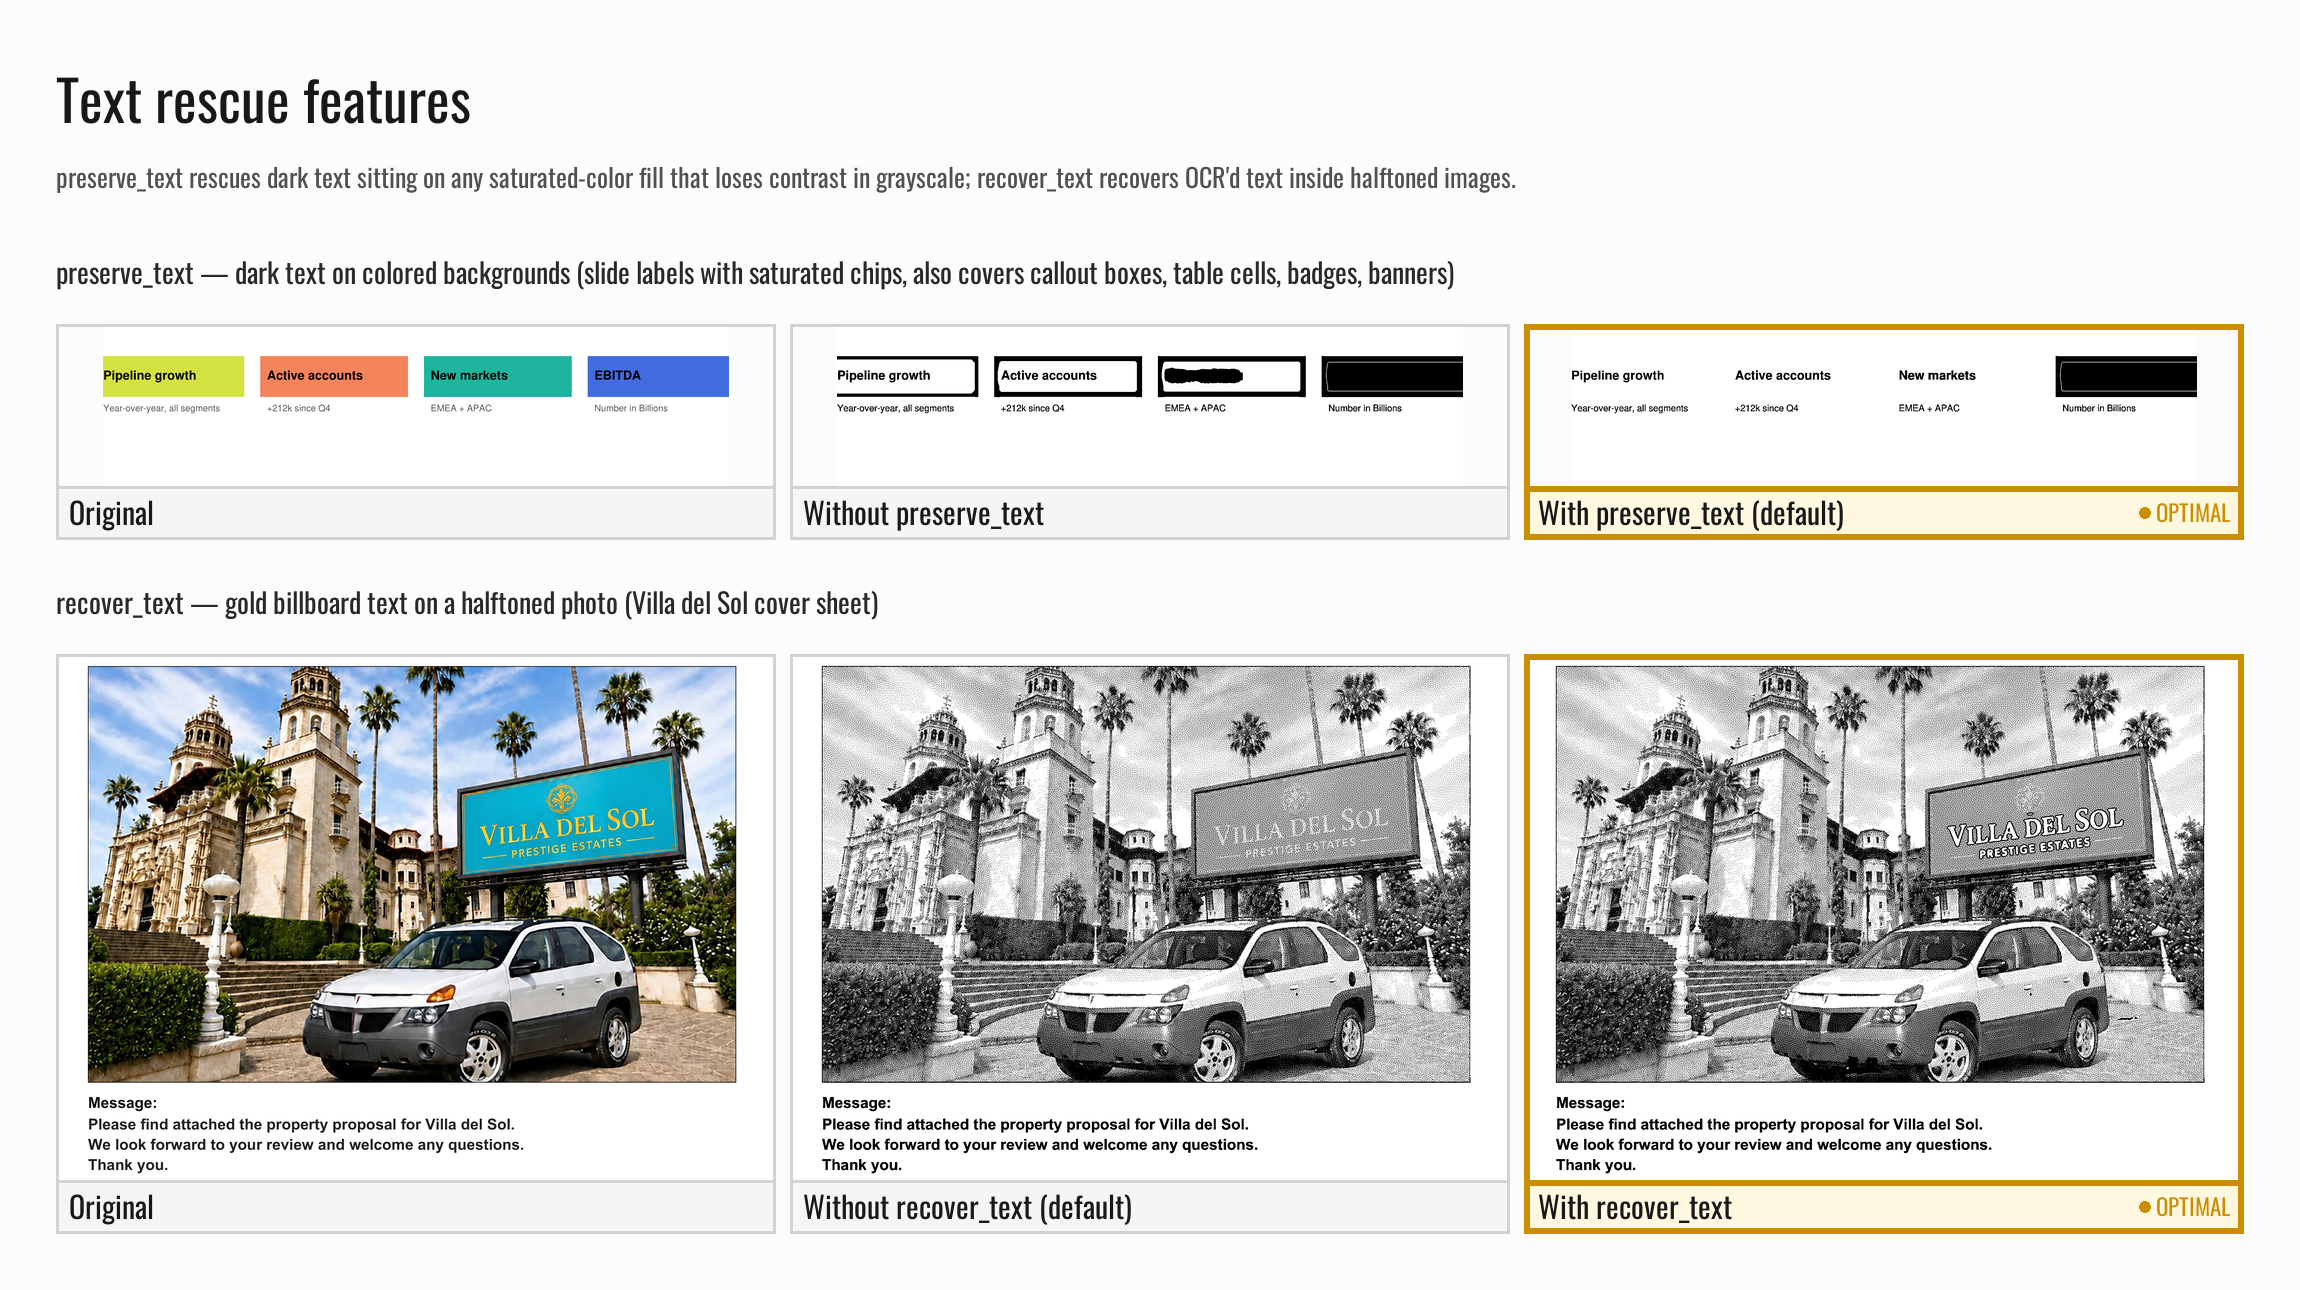
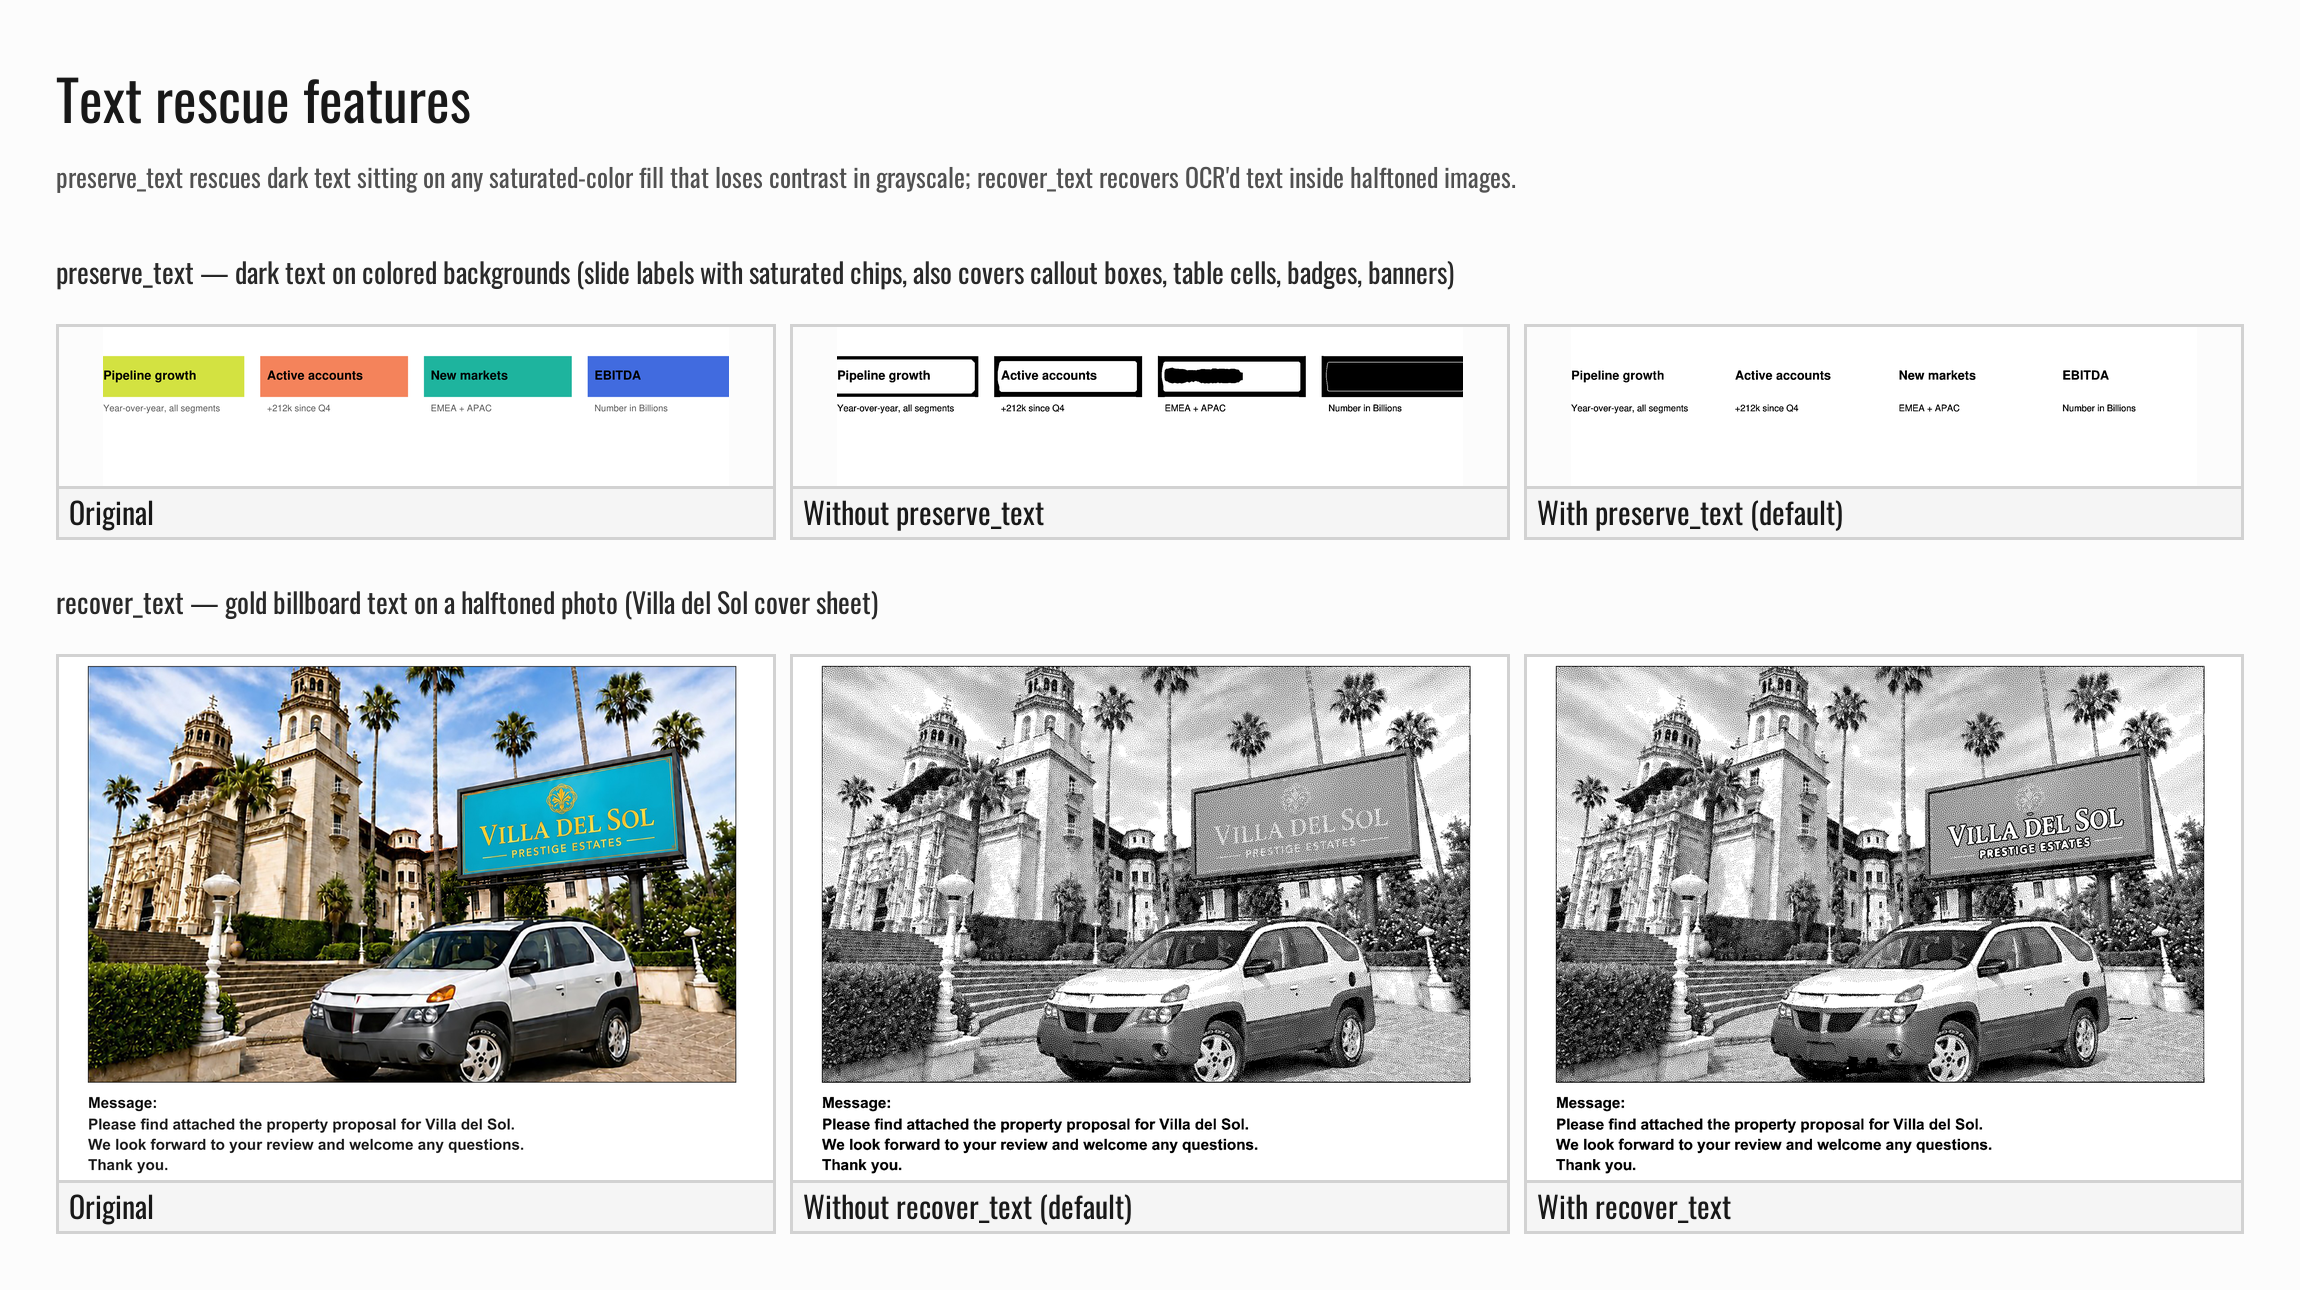
fix(preserve_text): use background-relative dark threshold so dark-luma chips rescue correctly
`preserve_text_mask` was using an absolute `dark_thr=110` to count
text-stroke pixels inside each candidate chip. For any chip whose
grayscale background luma sat at or below 110 -- e.g. a dark-blue
"EBITDA" badge at RGB(65,107,223), luma 108 -- the chip's *entire*
background got counted as "dark text". `dark_frac` then saturated near
1.0, exceeded `max_dark_frac=0.50`, and the chip was rejected from the
rescue. It fell through to the contrast binarizer which painted the
whole chip solid black with the label knocked out -- the exact failure
mode preserve_text exists to prevent.

The fix anchors the threshold to the chip's own background luma:

  * Compute `bg_luma = percentile(chip_pixels, 75)` per component
    (robust to text strokes occupying up to a quarter of the chip).
  * Skip the chip entirely if `bg_luma < bg_luma_floor=60`. A chip
    that dark all the way through has no background to lift; the
    binarizer can have it.
  * `effective_dark_thr = max(rel_dark_floor=40,
                              min(dark_thr=110, bg_luma - rel_dark_offset=40))`.
    The absolute `dark_thr` is preserved as an upper cap so bright
    chips (lime, pale yellow) still catch their full anti-aliased
    glyph halos and don't slice the glyph outline; on a dark-blue
    chip the cap drops to ~68 so the blue background no longer
    registers as a stroke and the rescue fires correctly.

Behaviour matrix across the synthetic-chip demo:
[…]

diff --git a/pdf-fax-optimizer/scripts/fax_pipeline.py b/pdf-fax-optimizer/scripts/fax_pipeline.py
@@ -380,7 +380,10 @@ def preserve_text_mask(rgb: np.ndarray,
                                 dark_thr: int = 110,
                                 min_dark_frac: float = 0.0,
                                 max_dark_frac: float = 0.50,
-                                pad: int = 4) -> np.ndarray:
+                                pad: int = 4,
+                                bg_luma_floor: int = 60,
+                                rel_dark_offset: int = 40,
+                                rel_dark_floor: int = 40) -> np.ndarray:
     """Find small saturated-colour fields that contain dark text strokes;
     return a mask of pixels to LIFT TO WHITE before binarization.
 
@@ -416,6 +419,11 @@ def preserve_text_mask(rgb: np.ndarray,
         the photo. 1.5% of page area covers normal slide / dashboard /
         form / report colored fields but excludes signage and banner-
         sized colour blocks.
+      - **Background luma above floor** (`bg_luma_floor`) — the chip's
+        75th-percentile luma must be at least 60. Below that the chip is
+        genuinely dark end-to-end and the rescue has nothing to lift to
+        white; the binarizer handles it the same as any other dark
+        region.
       - **Dark text density** inside the bbox bounded above by
         `max_dark_frac` — too many darks means a near-solid dark field
         (no text rescue possible) → leave alone. The lower bound is 0
@@ -423,6 +431,19 @@ def preserve_text_mask(rgb: np.ndarray,
         with no text, a coloured callout dot) also whiten cleanly —
         on a 1-bit channel colour is dead anyway and a black bar
         is a worse outcome than blank.
+
+    The dark threshold is **background-relative**: a pixel only counts
+    as text-stroke if its grayscale value is at least `rel_dark_offset`
+    luma below the chip's 75th-percentile luma (capped above by the
+    absolute `dark_thr` floor so bright-chip AA halos still catch). An
+    earlier absolute-only threshold rejected any chip whose own
+    background luma sat below 110 (e.g. a dark-blue "EBITDA" badge at
+    luma 108): the whole chip got counted as "text", `dark_frac`
+    saturated, and the rescue refused to fire — the chip then went out
+    as a solid-black knockout, which is the exact failure mode this
+    routine exists to prevent. Anchoring the threshold to the chip's
+    actual background fixes this for the full saturation range from
+    pale-yellow chips down to navy badges.
 
     Whitening uses the COMPONENT'S BOUNDING BOX (padded outward by
     `pad`) minus the dark text strokes — not just a dilation of the
@@ -468,11 +489,40 @@ def preserve_text_mask(rgb: np.ndarray,
         n_comp = int(comp.sum())
         if n_comp < 16:
             continue
+        # Background-relative dark threshold. An absolute floor like
+        # dark_thr=110 fails on any saturated colour whose grayscale luma
+        # itself sits below the floor — picture a dark-blue "EBITDA" chip
+        # at RGB(65,107,223) (luma 108). The whole chip is then counted
+        # as "dark text", dark_frac saturates near 1.0, exceeds
+        # max_dark_frac, and the chip is rejected from the rescue. It
+        # then falls through to the binarizer which paints it solid black
+        # because the dark-text-on-dark-fill scenario is exactly what
+        # this routine is supposed to protect against. The fix: anchor
+        # the threshold to the chip's actual background luma. Use the
+        # 75th percentile of the component's gray values as the
+        # background estimate (robust to text strokes occupying up to a
+        # quarter of the chip area), then call a pixel "text-dark" only
+        # if it's `rel_dark_offset` luma below that background. The
+        # absolute `dark_thr` floor is preserved as an upper bound so
+        # bright chips still capture their anti-aliased text halos
+        # (where pixel luma can be 90+) and don't slice the glyph
+        # outline.
+        chip_lumas = sub_gray[comp == 1]
+        bg_luma = int(np.percentile(chip_lumas, 75))
+        if bg_luma < bg_luma_floor:
+            # Chip is genuinely dark all the way through; preserve_text
+            # can't recover any text stroke here because there is no
+            # background to lift to white. Let the normal binarizer
+            # handle it (it'll go solid black, but there was never
+            # anything to rescue).
+            continue
+        effective_dark_thr = max(rel_dark_floor,
+                                 min(dark_thr, bg_luma - rel_dark_offset))
         # Dark-density gate. Too few darks = a plain colour swatch with no
         # text inside (a logo, a slide-deck accent block); too many = a
         # near-solid dark chip whose "text" is the chip itself. The middle
         # band is the text-on-colour signature.
-        dark_pixels = (sub_gray < dark_thr) & (comp == 1)
+        dark_pixels = (sub_gray < effective_dark_thr) & (comp == 1)
         n_dark = int(dark_pixels.sum())
         frac = n_dark / n_comp
         if not (min_dark_frac <= frac <= max_dark_frac):
@@ -491,7 +541,7 @@ def preserve_text_mask(rgb: np.ndarray,
         xbox0 = max(0, x0 - pad)
         ybox1 = min(h, y0 + hh + pad)
         xbox1 = min(w, x0 + ww + pad)
-        sub_dark_box = gray[ybox0:ybox1, xbox0:xbox1] < dark_thr
+        sub_dark_box = gray[ybox0:ybox1, xbox0:xbox1] < effective_dark_thr
         out[ybox0:ybox1, xbox0:xbox1] |= ~sub_dark_box
     return out
 